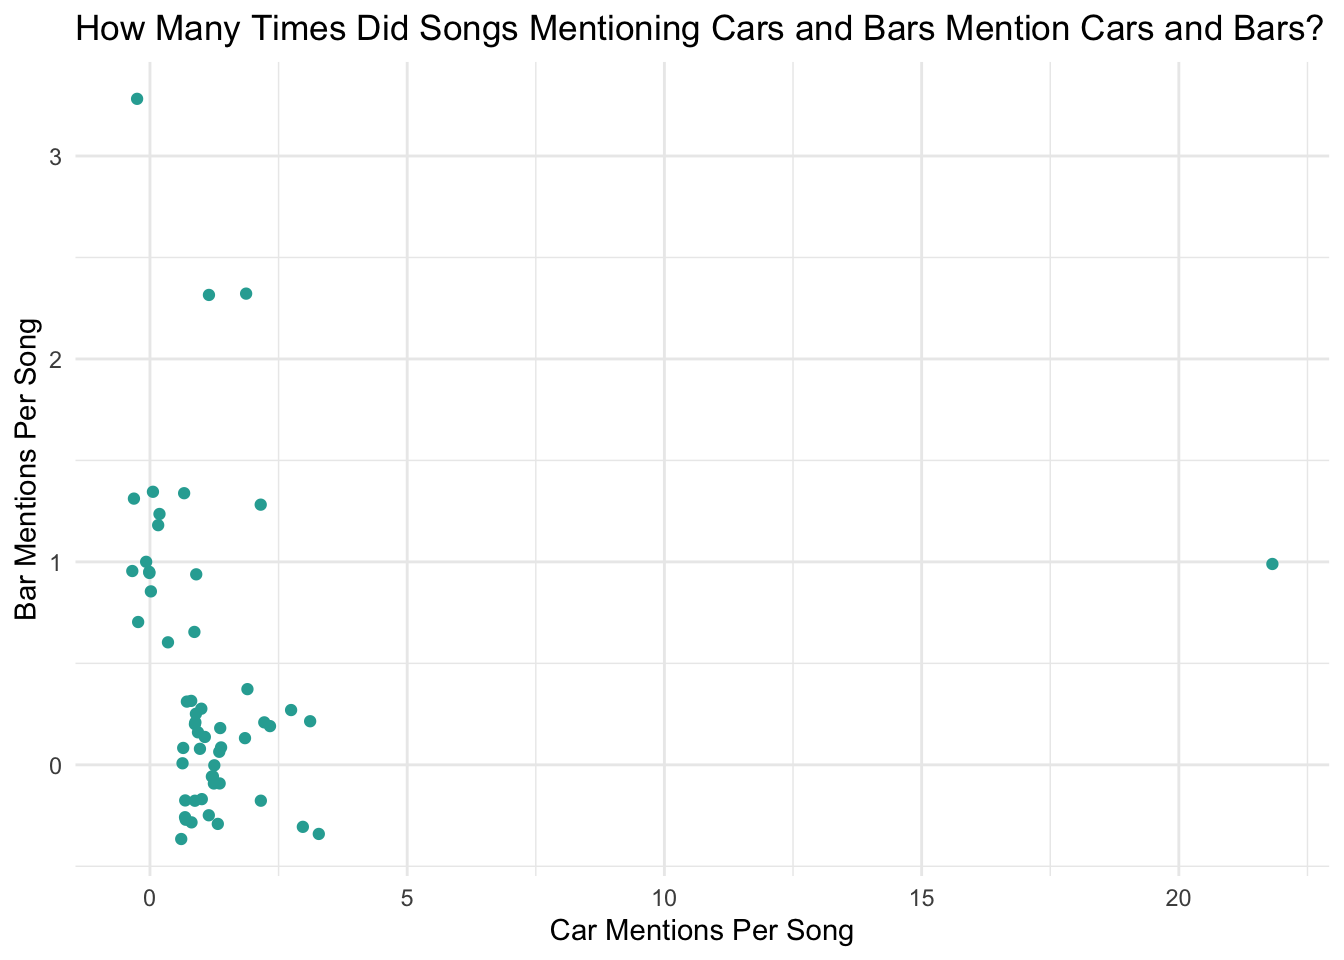
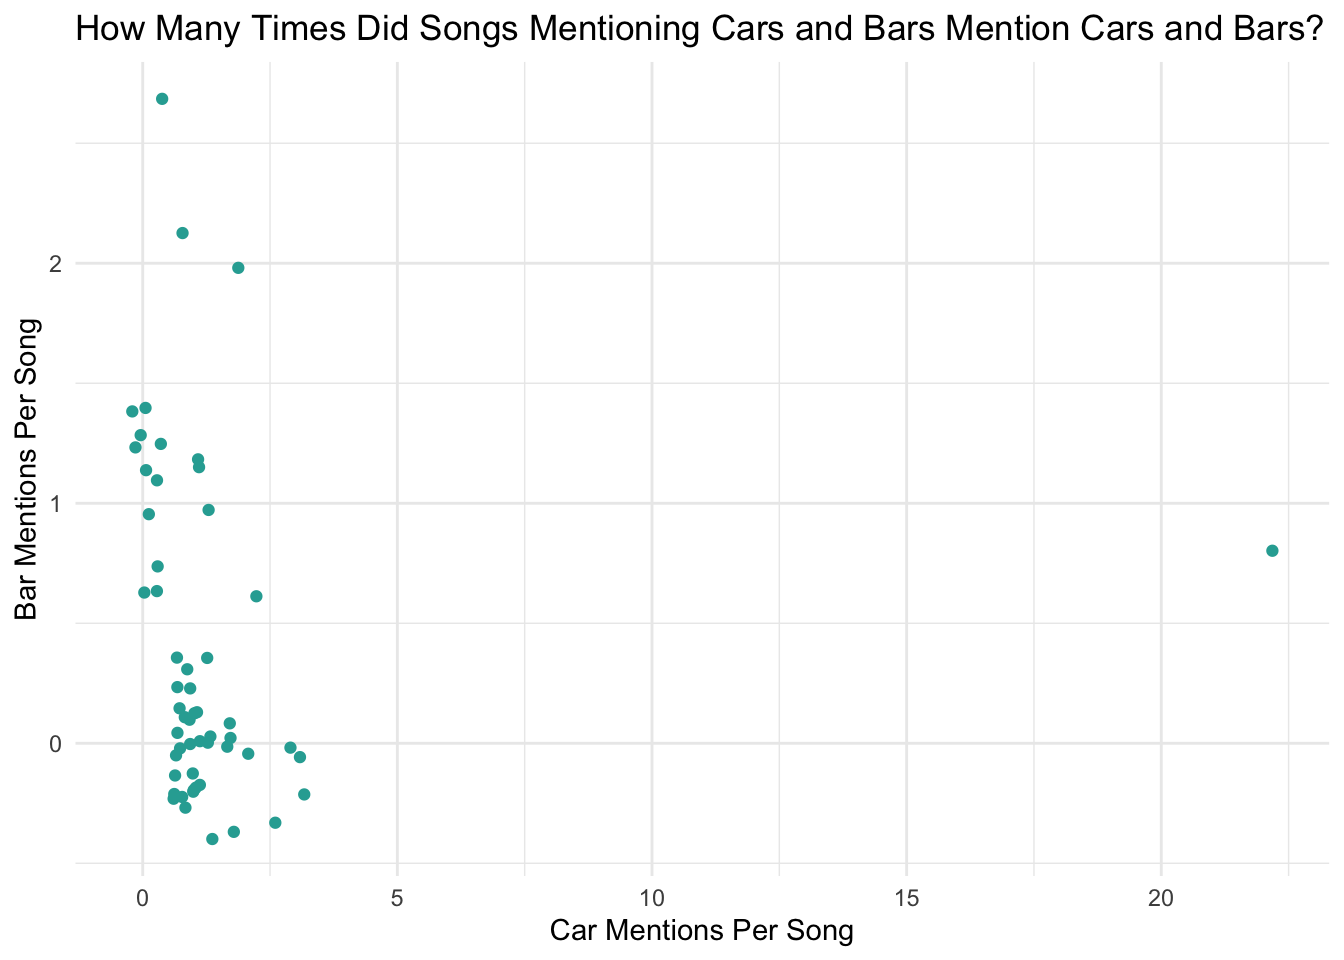
Project 2: Spelling is Fun!

diff --git a/docs/about.html b/docs/about.html
@@ -201,9 +201,9 @@ pre > code.sourceCode > span > a:first-child::before { text-decoration: underlin
 <p>Continuing with my Data Visualization from Project 1, here, I will look at Taylor Swift song lyrics.</p>
 <p><strong>Motivation</strong></p>
 <p>Taylor Swift gets a lot of hate for supposedly overusing “car” as a rhyme with “bar.” I am very skeptical of this criticism, and so I will analyze how frequently she actually does this.</p>
-<p>In order to invesigate this very pressing research question, I am looking at data containing all the lyrics from songs on Taylor Swift’s albums released by February 2026. This excludes non-album singles like “Christmas Tree Farm,” and songs released after February 2026, like “Pink Clouding.””</p>
+<p>In order to investigate this very pressing research question, I am looking at data containing all the lyrics from songs on Taylor Swift’s albums released by February 2026. This excludes non-album singles like “Christmas Tree Farm,” and songs released after February 2026, like “Pink Clouding.”</p>
 <p><strong>Background</strong></p>
-<p>First, to see if this critiscim might hold weight, I am interested in the number of times Taylor Swift songs contain words that rhyme with car. The following plot summarizes this:</p>
+<p>First, to see if this critiscim might hold weight, I am interested in the number of times Taylor Swift song lyrics contain words that rhyme with car. The following plot summarizes this:</p>
 <div class="cell">
 <details class="code-fold">
 <summary>R Code</summary>
@@ -243,7 +243,7 @@ pre > code.sourceCode > span > a:first-child::before { text-decoration: underlin
 </div>
 </div>
 <p>Combinatorialists rejoice! Taylor Swift is clearly a fan of stars and bars.</p>
-<p>This plot suggests that out of all words that rhyme with “car,” Taylor Swift uses “car” the most frequently, and “bar” is very common, as well. However, “star,” “far,” and “scar,” are actually used more than “bar”, and so future investigations into this topic could determine how freuently these other words are used as rhymes for “car.”</p>
+<p>This plot suggests that out of all words that rhyme with “car,” Taylor Swift uses “car” the most frequently, and “bar” is very common, as well. However, “star,” “far,” and “scar,” are actually used more than “bar,” and so future investigations into this topic could determine how frequently these other words are used as rhymes for “car.”</p>
 <p>However, since “bar” is mentioned so frequently, it is worth starting our investigation into how frequently Taylor Swift rhymes car with bar.</p>
 <p><strong>Car-Bar Rhymes</strong></p>
 <div class="cell">
@@ -368,8 +368,8 @@ pre > code.sourceCode > span > a:first-child::before { text-decoration: underlin
 #   ²Perc_Car_Rhymes_Per_Bar_Mentions</code></pre>
 </div>
 </div>
-<p>This table clearly shows that very few Taylor Swift songs actually feature car-bar rhymes (only 2.11%!), or 7 songs in total. It also shows Taylor is less likely to mention bar on its own than car on its own. Only 15.9% of the time that cars are mentioned are they mentioned as a rhyme with bar. However, 36.8% of the time bars are mentioned are they mentioned as a rhyme with car.</p>
-<p>However, I do not believe that repeatedly rhyming cars with bars is in itself a problem. instead, critics usually complain that rhyming cars with bars is indicative of lazy songwriting. Thus, if rhyming cars with bars is truly a valid critique, we would expect Taylor’s songs that rhyme cars with bars to be less musically diverse than Taylor’s songs that do not rhyme cars with bars. In the next plot, we will compare the spread of 5 different scores for Taylor Swift songs that rhyme car with bar, and those that don’t.</p>
+<p>This table clearly shows that very few Taylor Swift songs actually feature car-bar rhymes (only 2.11%!), or 7 songs in total. It also shows Taylor is less likely to mention bar on its own than car on its own. Only 15.9% of the songs mentioning cars mention car as a rhyme with bar. However, 36.8% of the songs mentioning bars mention bar as a rhyme with car.</p>
+<p>However, I do not believe that repeatedly rhyming cars with bars is in itself a problem. Instead, critics usually complain that rhyming cars with bars is indicative of lazy songwriting. Thus, if rhyming cars with bars is truly a valid critique, we would expect Taylor’s songs that rhyme cars with bars to be less musically diverse than Taylor’s songs that do not rhyme cars with bars. In the next plot, we will compare the spread of 5 different scores for Taylor Swift songs that rhyme car with bar, and those that don’t.</p>
 <div class="cell">
 <details class="code-fold">
 <summary>R Code</summary>
